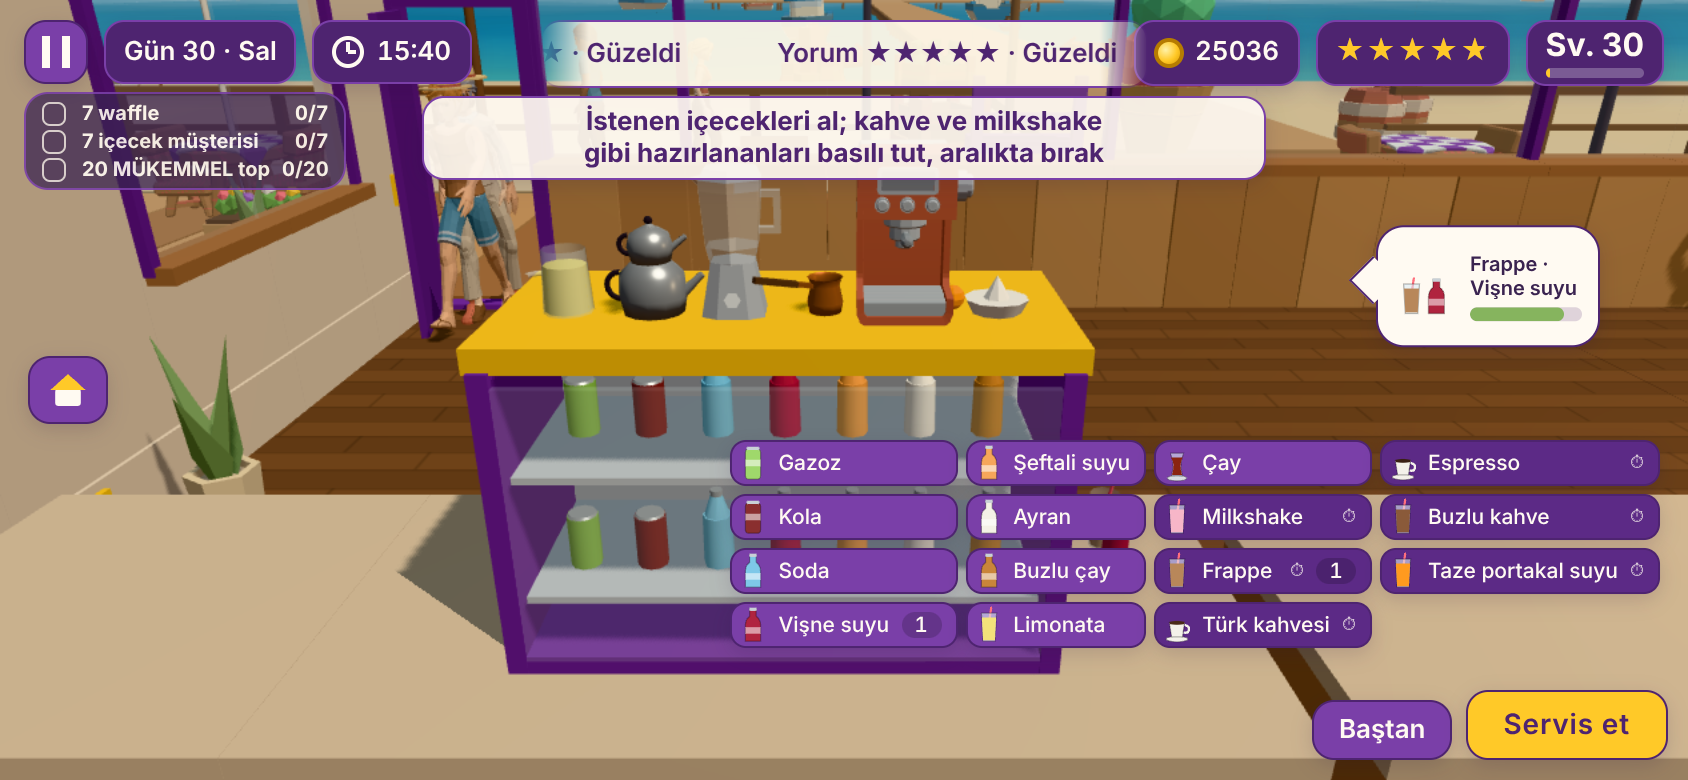
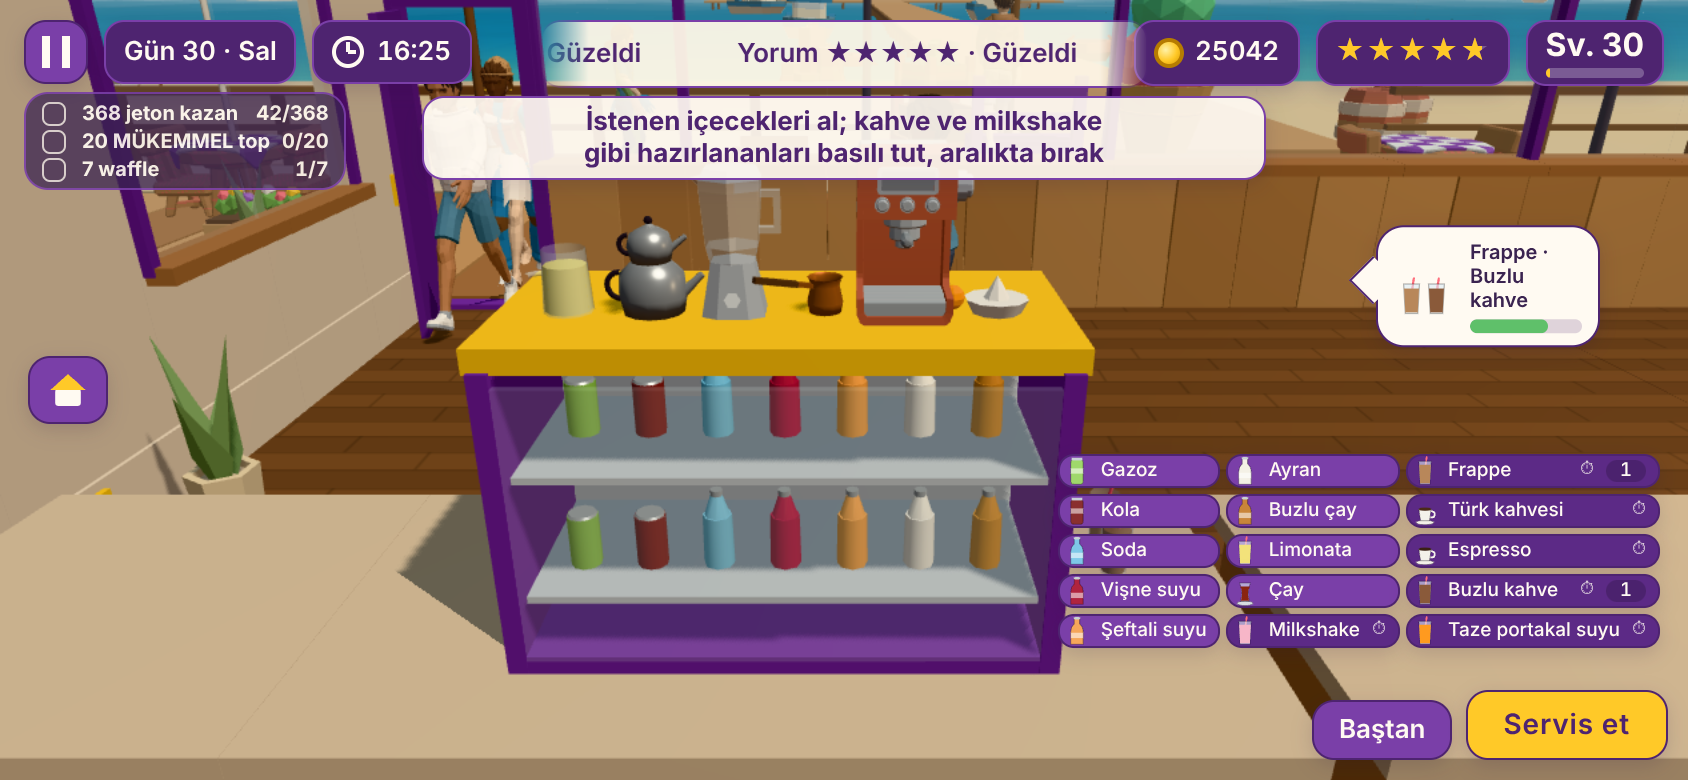
İçecek düğmeleri daha küçük
Claude-Session: https://claude.ai/code/session_011qBXwDPHb9Dyfk614hsxLA

diff --git a/src/stil.css b/src/stil.css
@@ -2062,8 +2062,8 @@ a.dugme {
 .icecek-paneli {
   /* Açık içecekler çoğalınca yan yana sütunlara akar (9d) */
   display: grid;
-  grid-template-rows: repeat(4, auto);
-  gap: 4px;
+  grid-template-rows: repeat(5, auto);
+  gap: 3px;
   grid-auto-flow: column;
   align-items: stretch;
 }
@@ -2071,15 +2071,16 @@ a.dugme {
   background: #5c2a86;
 }
 .icecek-paneli .icecek-dugme {
-  font-size: 10.5px;
+  font-size: 9.5px;
   font-weight: 500;
-  padding: 1px 7px 1px 4px;
+  padding: 0 6px 0 3px;
+  line-height: 1.2;
   border-width: 1px;
   border-radius: 8px;
 }
 .icecek-paneli .icecek-simge {
-  width: 13px;
-  height: 19px;
+  width: 11px;
+  height: 15px;
 }
 /* Basılı tutulan içecek: küçük saat işareti */
 .icecek-tut {
